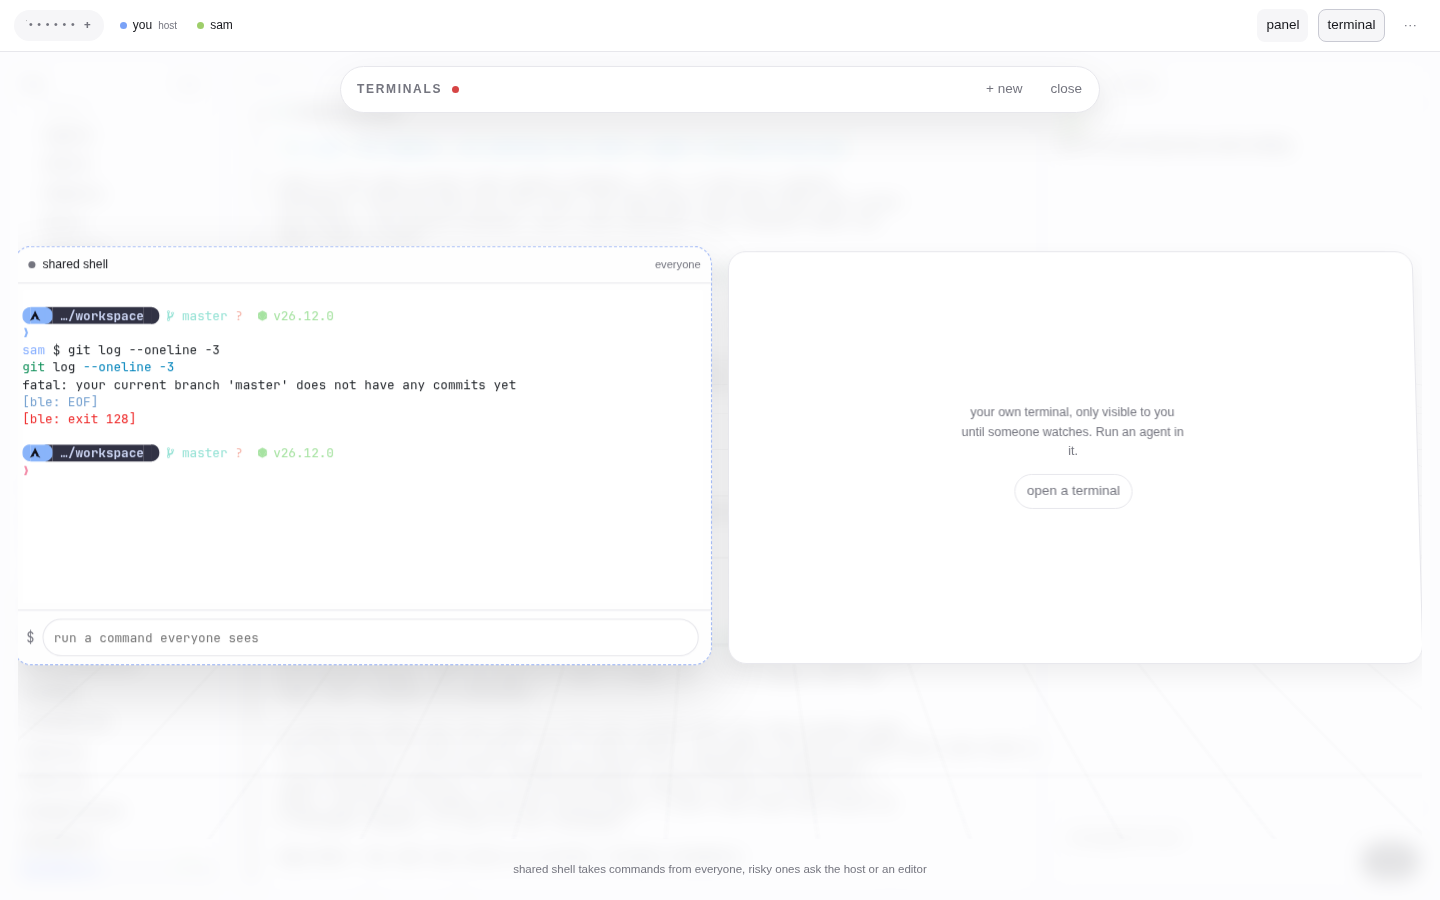
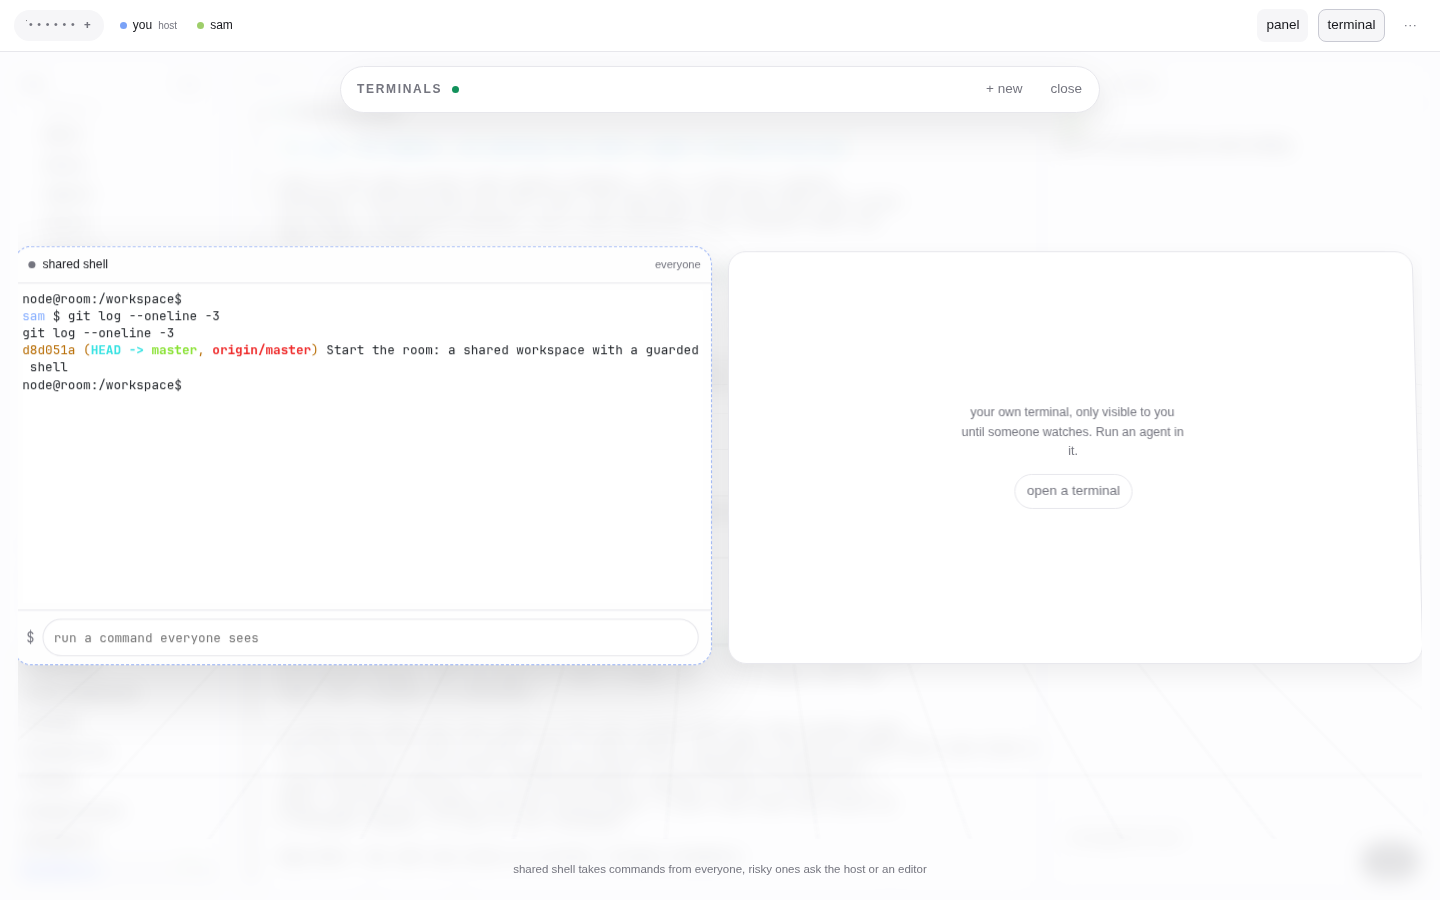
Copy a small git history into the room and refresh the screenshots
Rooms kept dropping .git, so git could not be used in the shared shell. A
history under 40 MB now comes along, keeping the copy light while making
status, diff and log work.

Also fixes commands typed while a shell was still booting, and the editor
drifting off its gutter after a resize.

Changed region(s): [[0.0, 0.3111, 0.5, 0.5289], [0.1875, 0.4978, 0.2188, 0.5289]]

diff --git a/AGENTS.md b/AGENTS.md
@@ -14,6 +14,7 @@ npm run dev                # server with tsx watch (web: npm run dev --workspace
 npm run test:ui            # builds, then playwright walks the real UI
 npm run test:audit         # builds, then screenshots every panel for inspection
 npm run room:image         # docker image the guest shell runs in
+npm run docs:shots         # regenerates the README screenshots
 ```
 
 Tests force `CLIMP_SHELL=host` (see `server/test/setup.ts`): fast and
@@ -54,6 +55,12 @@ behaviour.
   `no-new-privileges`, memory/CPU/PID caps, workspace and homes only. Global npm
   installs work because `npm_config_prefix` points into the member home; that is
   why the root stays read-only. `apt-get install` inside a room will fail.
+- **Seeding skips more than it copies.** `node_modules`, `dist`, caches and
+  similar stay behind, and `.git` rides along only under 40 MB. The original
+  folder is never written to.
+- **One shell per room, and it may still be booting.** `openTerminal` shares an
+  in-flight start between sockets and exposes `ready`; a command written before
+  the shell speaks is otherwise lost. Await `ready` before `runCommand`.
 - **Restart after `npm run build`.** `web/index.html` points at hashed bundles
   from `web/dist`, and `webDir` existence is checked at boot. A server started
   before a rebuild keeps serving the old asset map, so `/assets/*.js` returns

diff --git a/README.md b/README.md
@@ -30,7 +30,9 @@ climultiplayer on http://127.0.0.1:8787 (local)
 Open the local URL, pick a name, start a room, then hit **invite** on the room
 code. That mints a single-use link and copies it; send it wherever. To start from
 an existing folder, put its path in "copy a folder in": it is copied into the
-room, your original is untouched.
+room, your original is untouched. A small `.git` is copied out of a real
+repository so `git status` and `git log` work in the room, but a history over
+40 MB is skipped to keep the copy light.
 
 A friend who opens the link lands on the join screen with the room already known
 from the link (no code to type), gets a name prompt, and waits. You get a queue entry and click allow. The invite token sits after the
